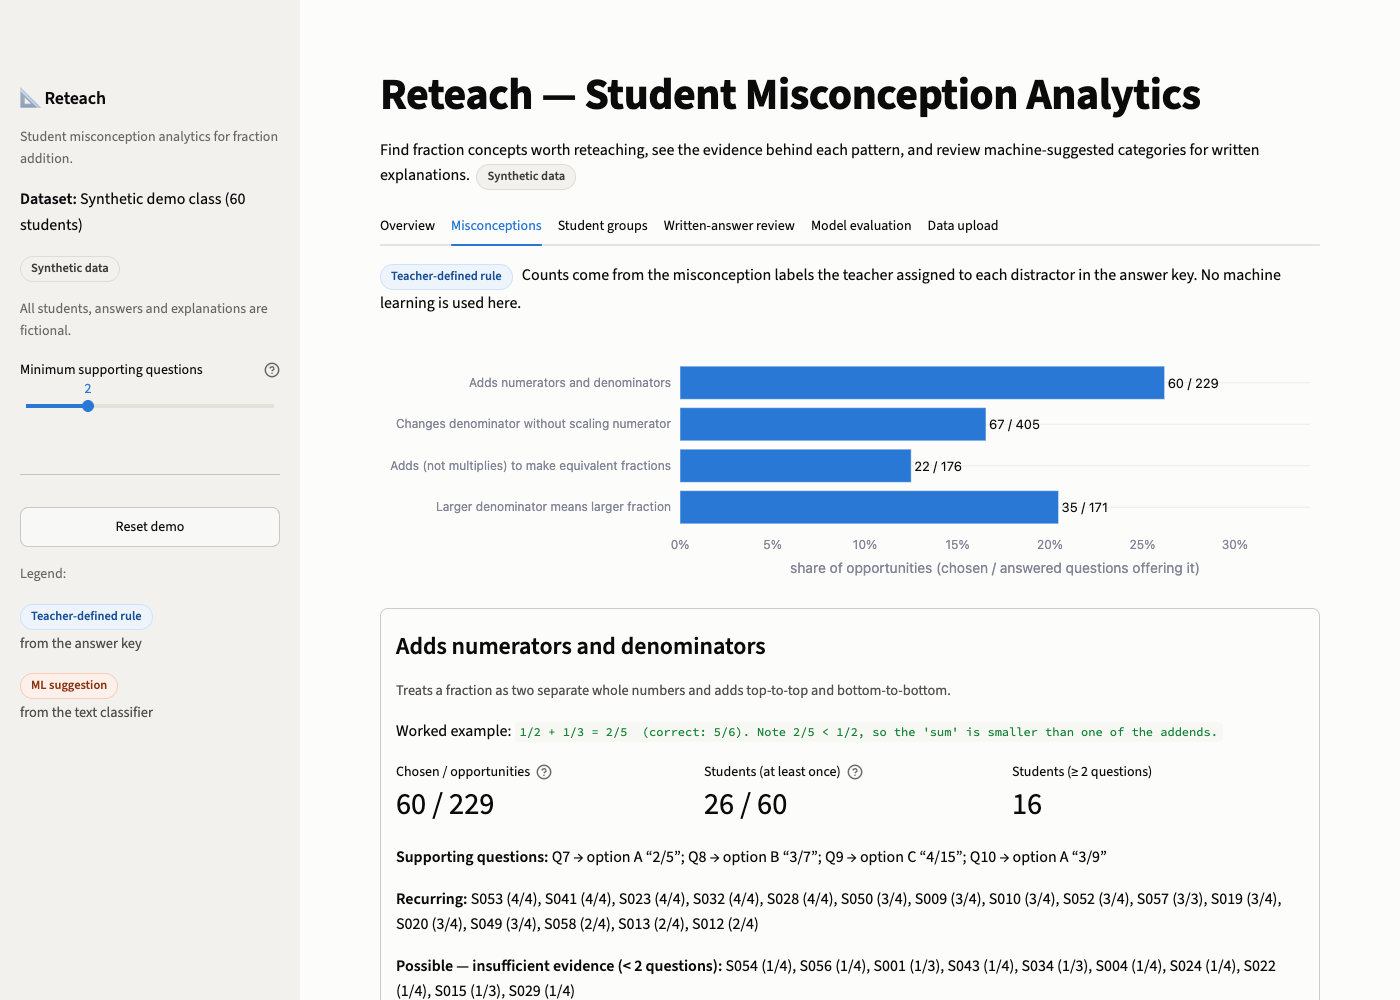
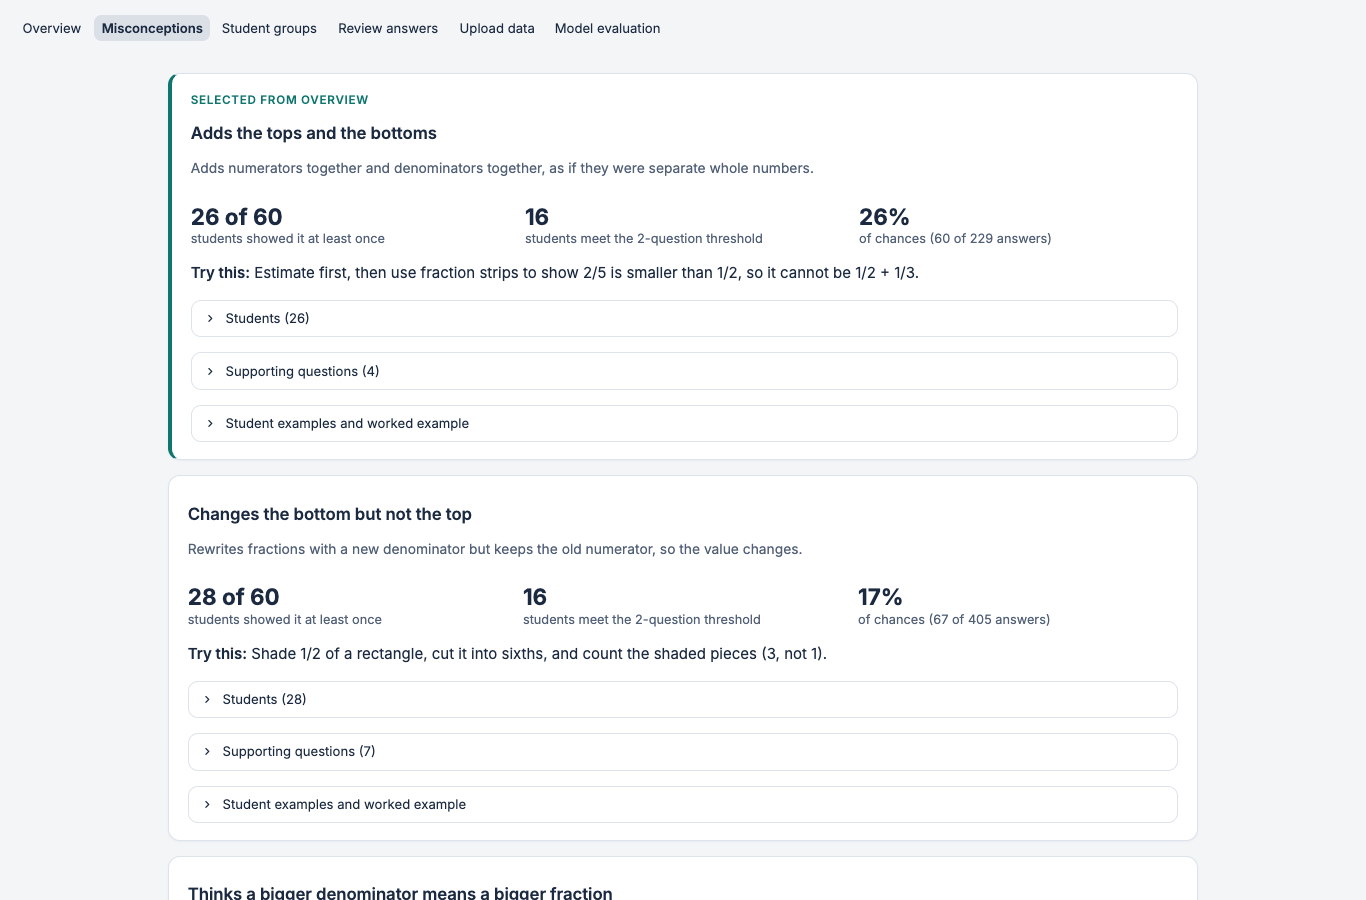
Update docs and screenshots for the redesigned app

diff --git a/README.md b/README.md
@@ -8,11 +8,11 @@ concepts are worth reteaching, along with the evidence for each suggestion.
 > project author from templates. No real students, schools or classrooms are involved. No
 > expert annotated the data, and nothing here shows that the tool improves learning.
 
-![Overview tab](docs/screenshots/overview.png)
+![Class overview](docs/screenshots/overview.png)
 
 | Student groups | Teacher review & correction | Model evaluation |
 |---|---|---|
-| ![Groups](docs/screenshots/student_groups.png) | ![Review](docs/screenshots/review_correction.png) | ![Evaluation](docs/screenshots/evaluation.png) |
+| ![Groups](docs/screenshots/student_groups.png) | ![Review](docs/screenshots/review.png) | ![Evaluation](docs/screenshots/evaluation.png) |
 
 *Screenshots of the synthetic demo, captured with headless Chrome.*
 
@@ -29,18 +29,21 @@ prerequisites: **equivalent fractions** and **comparing fractions**.
 
 ## What a teacher can do
 
-| View | What it shows | Source |
+| Page | What it shows | Source |
 |---|---|---|
-| **Overview** | Students, response coverage, accuracy, common error patterns, suggested topics with the reason for each, Markdown report export | Rules |
-| **Misconceptions** | Each misconception with chosen/opportunity counts, student denominators, supporting questions, example answers, student IDs | Teacher-defined answer key |
-| **Student groups** | Anonymous groups with recurring patterns, evidence such as "2 of 4 questions", and an adjustable minimum-support threshold (default 2) | Rules |
-| **Written-answer review** | Explanation, ML-suggested category, model score, review status, teacher correction | **ML** (TF-IDF + logistic regression) |
-| **Model evaluation** | Comparison with a baseline, confusion matrix, per-class metrics, threshold trade-off, errors, limitations | Saved evaluation |
-| **Data upload** | Templates, schema guidance, actionable validation messages | Validation |
+| **Overview** | Four summary cards (students, class accuracy, response coverage, answers to review), a "What to reteach next" panel with evidence and links to the details, topic accuracy, common mistakes, question results and the report export (in expandable sections) | Rules |
+| **Misconceptions** | One card per misconception: a plain-language title, one-sentence explanation, students showing it vs. meeting the recurring threshold, a short activity, and expandable students, supporting questions and examples | Answer key |
+| **Student groups** | Teaching groups with focus, size, activity and searchable member tables. "No recurring pattern" is kept separate from "All answers correct". | Rules |
+| **Review answers** | One answer at a time: the student's choice, explanation, model suggestion and status, and a category to confirm or change. Threshold settings are under *Advanced*. | **ML** + teacher |
+| **Upload data** | Data in use, reset to demo, templates, schema guide, and specific validation feedback | Validation |
+| **Model evaluation** | Comparison with a baseline, confusion matrix, per-category results, threshold trade-off, errors, limitations | Saved evaluation |
 
 The app keeps **teacher-defined rules** (the answer-key mapping from distractor to
-misconception) visibly separate from **machine-learning suggestions**, using a blue "Teacher-defined rule"
-badge and an orange "ML suggestion" badge. Rule-based lookups are never presented as AI.
+misconception) visibly separate from **machine-learning suggestions**. Teal "Answer-key rule"
+tags mark rule-based results, indigo "Model suggestion" tags mark ML output, and a solid
+"Teacher-confirmed" tag marks labels a teacher saved. Rule-based lookups are never presented
+as AI. The recurring-pattern threshold (default 2 questions) can be changed on the
+Misconceptions and Student groups pages and applies everywhere.
 
 ## Quick start
 
@@ -69,21 +72,21 @@ which takes about a second. It never loads pickle or joblib files from uploads.
 
 ## 90-second demo walkthrough
 
-1. **Overview.** 60 synthetic students and 96% response coverage. *Adding unlike
-   denominators* is suggested for review because accuracy is 55% **and** two misconceptions
-   recur for 27% of students. Each reason is listed. Download the report.
-2. **Misconceptions.** "Adds numerators and denominators" was chosen 60 times out of 229
-   opportunities. Each card shows the supporting questions, the IDs of students for whom
-   it recurs, and students with only one supporting question (insufficient evidence).
-3. **Student groups.** Move the *Minimum supporting questions* slider from 2 to 1 and watch
-   the groups grow. A single wrong answer is evidence, not a diagnosis.
-4. **Written-answer review.** Every prediction is routed to review by default (explained
-   below). Pick an explanation, correct its category, and save. The correction goes to
+1. **Overview.** 60 synthetic students, 59% accuracy and 96% response coverage. *What to
+   reteach next* names *Adding unlike denominators*: it is below the 70% target (55%), and
+   two misconceptions recur for 16 of 60 students each. Click **See misconception evidence**.
+2. **Misconceptions.** The selected card opens first. "Adds the tops and the bottoms":
+   26 of 60 students showed it at least once, and 16 meet the 2-question threshold. Expand
+   *Students* to see who, and on how many questions.
+3. **Student groups.** Switch the threshold from 2 to 1 question and watch the groups grow.
+   A single wrong answer is evidence, not a diagnosis.
+4. **Review answers.** Every suggestion is routed to review by default (explained below).
+   Choose a category and click **Save category**. The label is saved to
    `outputs/teacher_corrections.csv` with provenance and is **not** used for retraining.
-5. **Model evaluation.** Comparison with the baseline, the confusion matrix, and the
+5. **Upload data.** Upload `data/invalid/responses_messy.csv`, click **Check files**, and
+   read the specific feedback. **Reset to demo data** restores the demo.
+6. **Model evaluation.** Comparison with the baseline, the confusion matrix, and the
    honest limitations.
-6. **Data upload.** Upload `data/invalid/responses_messy.csv` and read the specific
-   validation feedback.
 
 A fuller script is in [docs/demo_script.md](docs/demo_script.md).
 
@@ -138,6 +141,10 @@ Templates you can download are in `data/templates/`, and deliberately broken inp
 | Blank `student_id` | Row dropped, with a warning. |
 | Empty file, header only, missing column, two correct options, wrong arithmetic | Blocking error with a specific message. |
 
+Uploaded data is kept only for the current browser session. Refreshing the page or
+pressing **Reset to demo data** returns to the demo, while saved teacher labels in
+`outputs/` are kept.
+
 **Accuracy = correct ÷ answered.** "Students" means anyone with at least one response row.
 Expected responses = students × questions.
 
@@ -184,7 +191,11 @@ real student writing and say nothing about classroom effectiveness.**
 ## Architecture
 
 ```
-app.py                     Streamlit presentation only
+app.py                     Streamlit entry point: page setup + top navigation
+views/                     one file per page (overview, misconceptions, groups, review,
+                           upload, evaluation) — presentation only
+ui/                        shared presentation: theme tokens + CSS, session state, components
+.streamlit/config.toml     theme (colours, radius, fonts)
 reteach/
   taxonomy.py              categories, handling states, authored review guidance
   arithmetic.py            fractions-module answer-key checks
@@ -239,9 +250,9 @@ reviewed retraining workflow would:
 
 ## Tests and CI
 
-`python -m pytest` runs 51 tests. They cover answer-key arithmetic, schema and input
+`python -m pytest` runs 61 tests. They cover answer-key arithmetic, schema and input
 validation, metric denominators, recurring-pattern grouping, blank and unknown responses,
 the absence of group or context overlap between training and test, training and inference
 handling states, report and correction export, and headless app smoke tests (including
-the correction flow). GitHub Actions runs lint, a reproducibility check on the generated data,
+the overview action, threshold persistence, correction flow, upload and reset). GitHub Actions runs lint, a reproducibility check on the generated data,
 the evaluation and the tests on Python 3.11 and 3.12.

diff --git a/docs/demo_script.md b/docs/demo_script.md
@@ -1,48 +1,50 @@
 # 90-second recruiter walkthrough
 
-Start the app with `streamlit run app.py`. The synthetic demo loads automatically. If you
-clicked around earlier, press **Reset demo** in the sidebar first.
+Start the app with `streamlit run app.py`. The demo class loads automatically. If you
+clicked around earlier, use **Upload data → Reset to demo data** (or refresh the browser).
 
 ---
 
-**0:00 — Framing (Overview tab)**
-> "Reteach helps a teacher decide what to reteach after a fraction quiz. Everything here is
-> synthetic: 60 fictional students and explanations I wrote myself. There are two kinds of
-> output, and the app keeps them apart: blue badges are teacher-defined rules from the
-> answer key, and orange badges are machine-learning suggestions."
+**0:00 — Framing (Overview)**
+> "Reteach helps a teacher decide what to reteach after a fraction quiz. The 'Demo data'
+> badge means everything here is synthetic: 60 fictional students and explanations I wrote
+> myself. Teal tags are rules from the answer key, and indigo tags are machine-learning
+> suggestions. The app never mixes the two."
 
-**0:15 — The decision**
-> "Coverage is 96% and accuracy is 59%. Blank and missing answers are excluded from
-> accuracy and shown separately. 'Adding unlike denominators' is suggested for review, and
-> the app says why: accuracy is 55%, and two misconceptions recur for 27% of students. The
-> suggested activity is guidance I authored, not AI-generated."
+**0:12 — The decision**
+> "The four cards answer 'how did the class do?': 59% accuracy and 96% coverage. Blank and
+> missing answers aren't counted as wrong. 'What to reteach next' names *Adding unlike
+> denominators*: it's below the 70% target, and two misconceptions recur for 16 students
+> each. Next to that is a short activity I authored, not AI-generated."
 
-**0:30 — Evidence (Misconceptions tab)**
-> "'Adds numerators and denominators' was chosen 60 times out of 229 opportunities. Here are
-> the supporting questions, the student IDs, and students with only one supporting question,
-> which I label as insufficient evidence instead of a diagnosis."
+**0:28 — Evidence**
+> *Click **See misconception evidence**.*
+> "The selected misconception opens first. 26 of 60 students chose 'adds the tops and the
+> bottoms' at least once, but only 16 did it on two or more questions. One wrong answer is
+> evidence, not a diagnosis."
+> *Expand **Students**.*
 
-**0:42 — Groups (Student groups tab)**
-> "Students are grouped by misconceptions that recur on at least two distinct questions."
-> *Drag the sidebar slider to 1, then back to 2.*
-> "With a threshold of 1, groups balloon. That's why the default is 2 and teachers can adjust it."
+**0:42 — Groups (Student groups)**
+> *Switch the threshold to **1 question**, then back to **2**.*
+> "With a threshold of one, the groups balloon. Students without a recurring pattern stay
+> separate from students who got everything right, because those aren't the same thing."
 
-**0:55 — ML with guardrails (Written-answer review tab)**
-> "A TF-IDF plus logistic-regression pipeline suggests a category for each written
-> explanation. Blank, very short and unrecognized texts are never forced into a category. I
-> chose the auto-accept threshold on validation data with a 90% accuracy policy. The model
-> didn't meet it, so every suggestion goes to teacher review."
-> *Pick an explanation, choose a category, click Save correction.*
-> "Corrections are saved with provenance in a separate file and never retrain the model
-> automatically."
+**0:55 — ML with guardrails (Review answers)**
+> "A TF-IDF plus logistic-regression model suggests a category for each written
+> explanation. The score is a ranking score, not a probability. I set a 90%-accuracy rule on
+> validation data before seeing results. The model didn't meet it, so every suggestion goes
+> to teacher review."
+> *Pick a category and click **Save category**; the next answer appears.*
+> "Confirmed labels go to a separate file with provenance and never retrain the model."
 
-**1:10 — Honest evaluation (Model evaluation tab)**
-> "On a held-out test set, with template families and number contexts the model never saw,
-> it gets 64% accuracy and 0.62 macro-F1, against 20% and 0.07 for a majority baseline. The
-> confusion matrix shows the main weakness: 'unscaled numerator' looks like correct
-> reasoning to a bag-of-words model, because the difference is arithmetic, not vocabulary."
+**1:10 — Honest evaluation (Model evaluation)**
+> "On held-out test data, with template families and numbers the model never saw, it scores
+> 64% accuracy and 0.62 macro-F1, against 20% and 0.07 for a majority baseline. The
+> confusion matrix shows the weakness: 'changes the bottom but not the top' reads like
+> correct reasoning to a bag-of-words model, because the difference is arithmetic, not
+> wording."
 
-**1:25 — Close (Data upload tab)**
+**1:25 — Close (Upload data)**
 > "Teachers can upload their own CSVs. Validation explains exactly what's wrong, down to line
 > numbers, and the answer key is checked with Python's fractions module."
 

diff --git a/docs/learning_guide.md b/docs/learning_guide.md
@@ -65,12 +65,20 @@ Pipeline([
 It trains, predicts on the untouched test set, computes metrics, compares against a
 `DummyClassifier`, and writes `artifacts/metrics.json` plus a readable report.
 
-### 8. `app.py`: presentation only
-Streamlit reruns the whole script top to bottom on every click. `st.session_state` remembers
-things between reruns, such as the current dataset and the saved corrections.
-`@st.cache_resource` keeps the trained model in memory so it isn't rebuilt on every click.
-Each tab is a function wrapped in `safe(...)`, which shows a friendly message if something
-fails.
+### 8. `app.py`, `views/` and `ui/`: presentation only
+Streamlit reruns the whole script top to bottom on every click.
+- `app.py` sets up the page and the top navigation (`st.navigation`). Each page is a file
+  in `views/`.
+- `ui/state.py` holds `st.session_state`, which remembers things between reruns, such as
+  the current dataset, the confirmed labels and the threshold setting. Widgets copy their
+  value into plain state keys through `on_change`, so a setting survives page changes.
+  `@st.cache_resource` keeps the trained model in memory.
+- `ui/theme.py` holds the colour tokens and a small amount of CSS. That CSS targets only
+  classes we create with `st.container(key="card-...")`.
+- `ui/components.py` has reusable pieces such as the page header, cards, tags and empty
+  states.
+- `app.py` wraps each page in a `try/except`, so teachers see a friendly message instead
+  of a traceback.
 
 ## Part 2: ML concepts in plain language
 

diff --git a/docs/resume_bullets.md b/docs/resume_bullets.md
@@ -14,7 +14,7 @@ Plotly, pytest, GitHub Actions) · personal project · synthetic data
   scikit-learn Pipeline with group-aware, held-out-context evaluation. It reached 0.62
   macro-F1 versus 0.07 for a majority-class baseline on a synthetic test set, and routes
   low-confidence predictions to teacher review using a threshold chosen on validation data.
-- Wrote 51 pytest tests and a GitHub Actions workflow covering input validation, metric
+- Wrote 61 pytest tests and a GitHub Actions workflow covering input validation, metric
   denominators, train/test leakage, and app smoke tests, and documented the results,
   failure modes and limitations in a model card.
 
